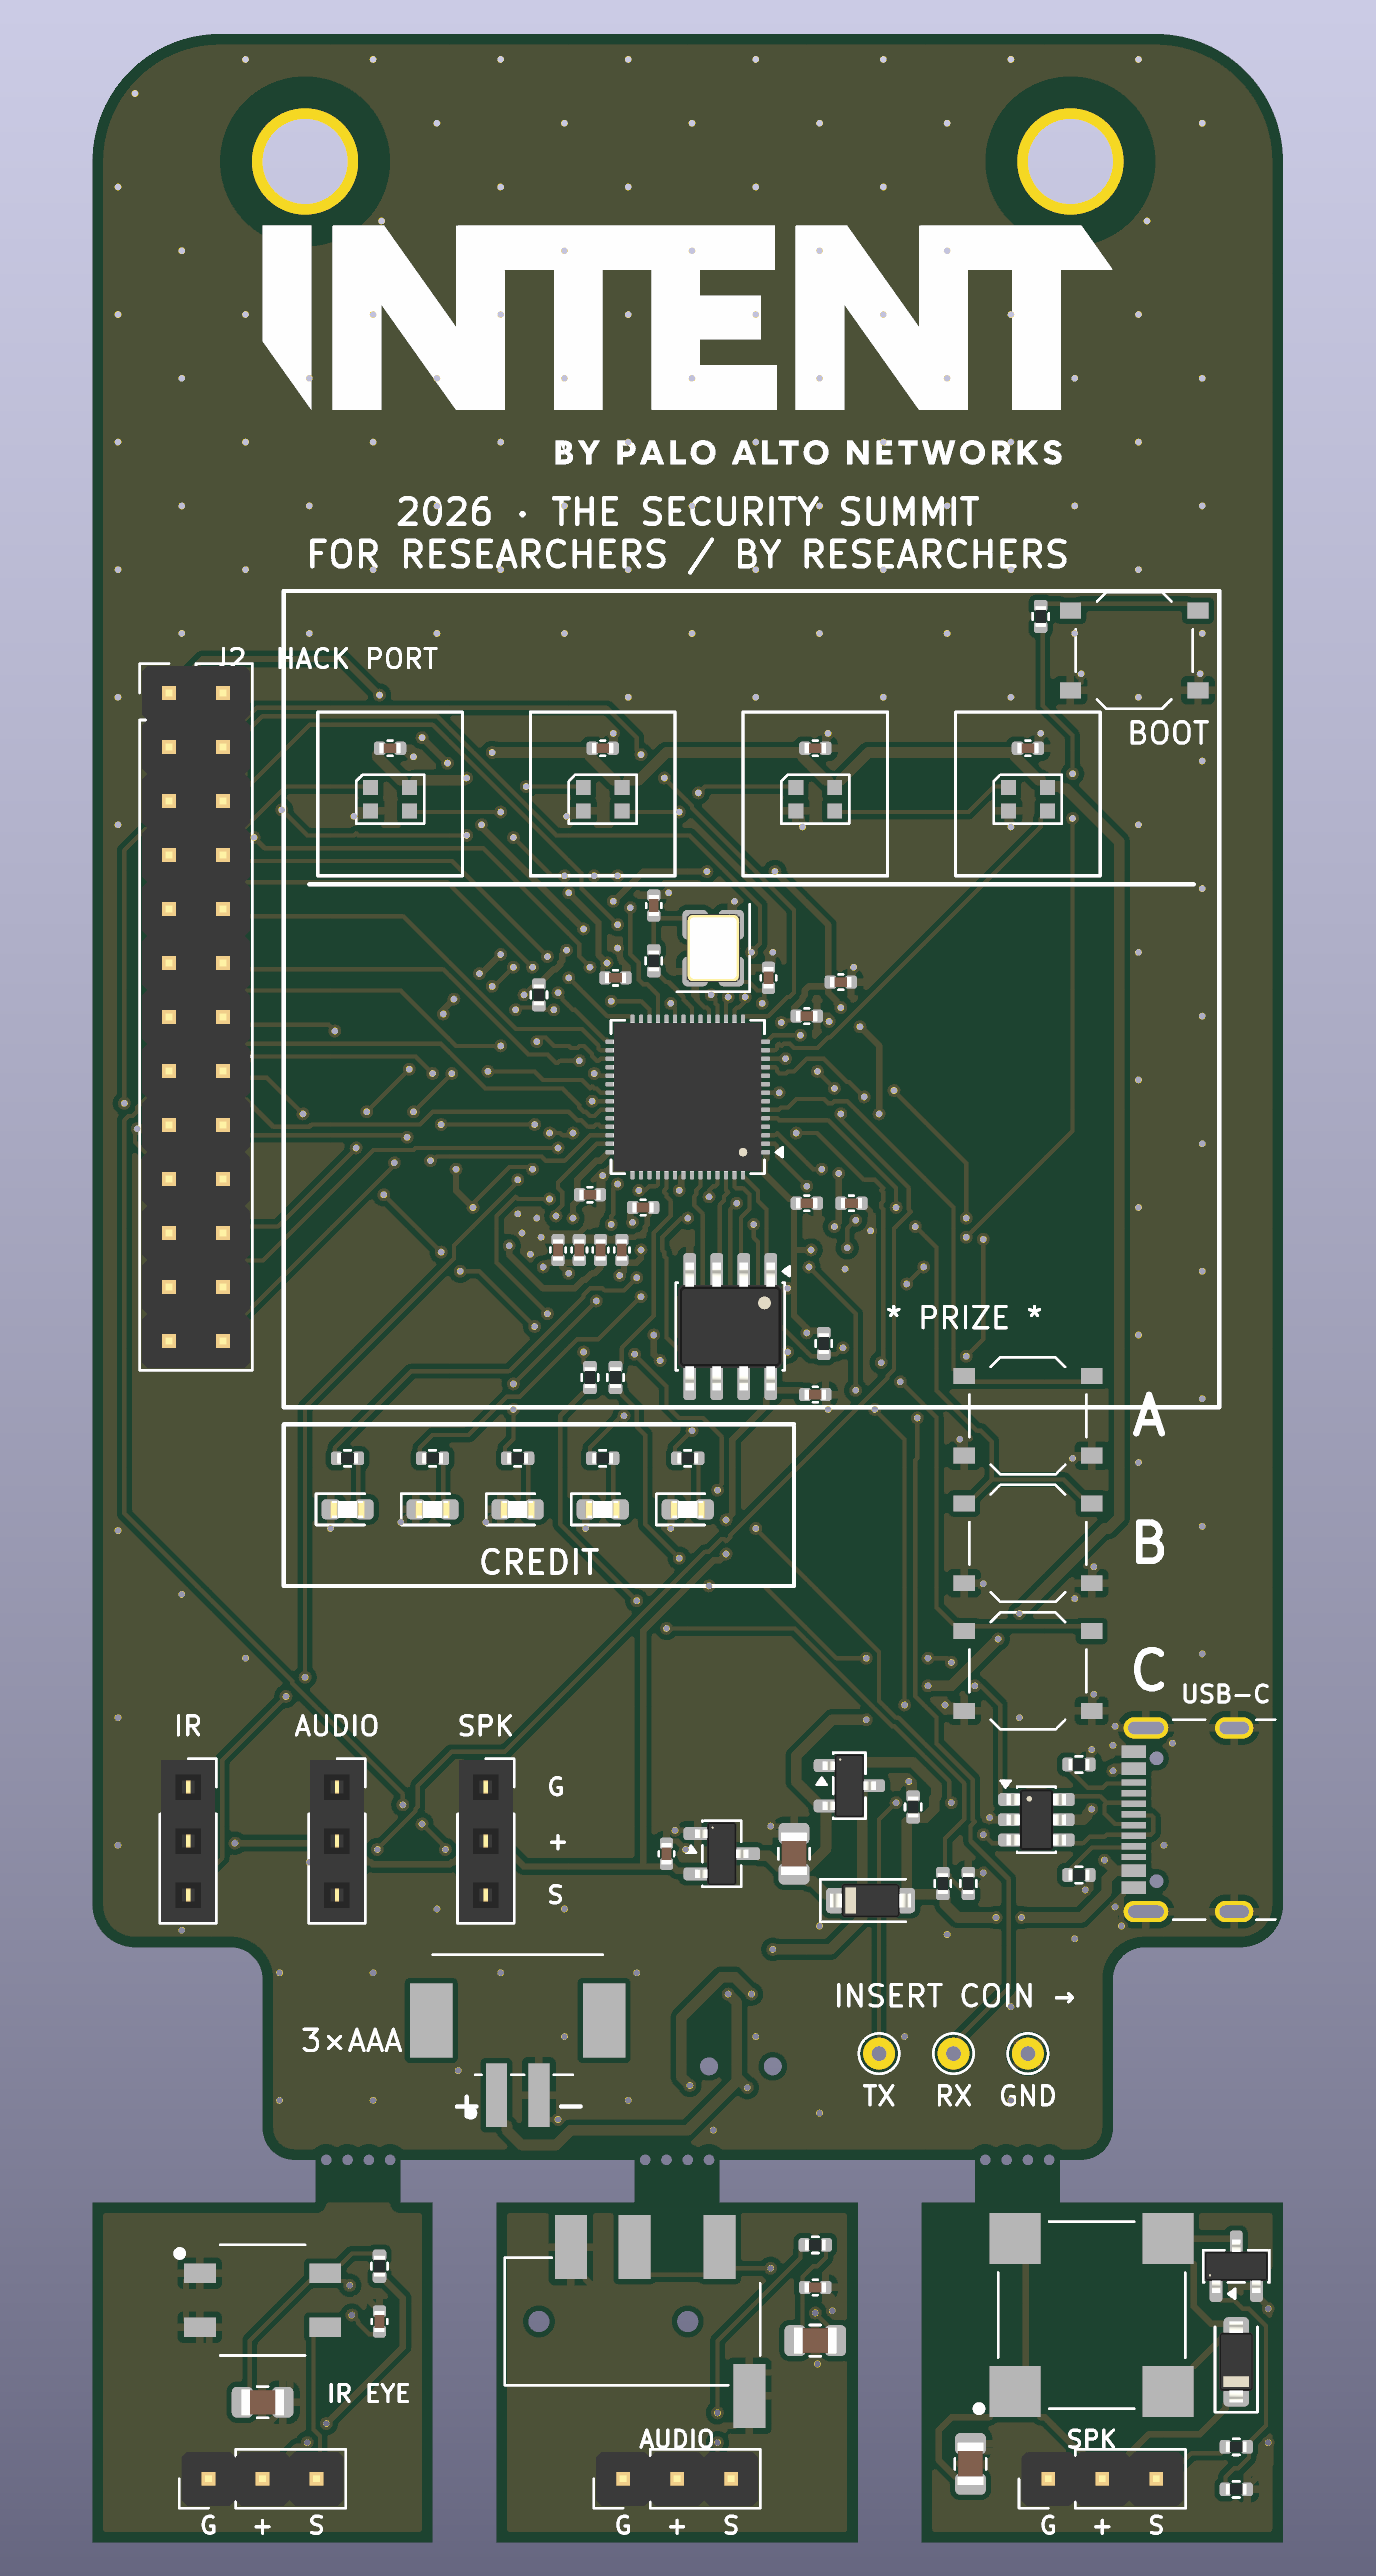
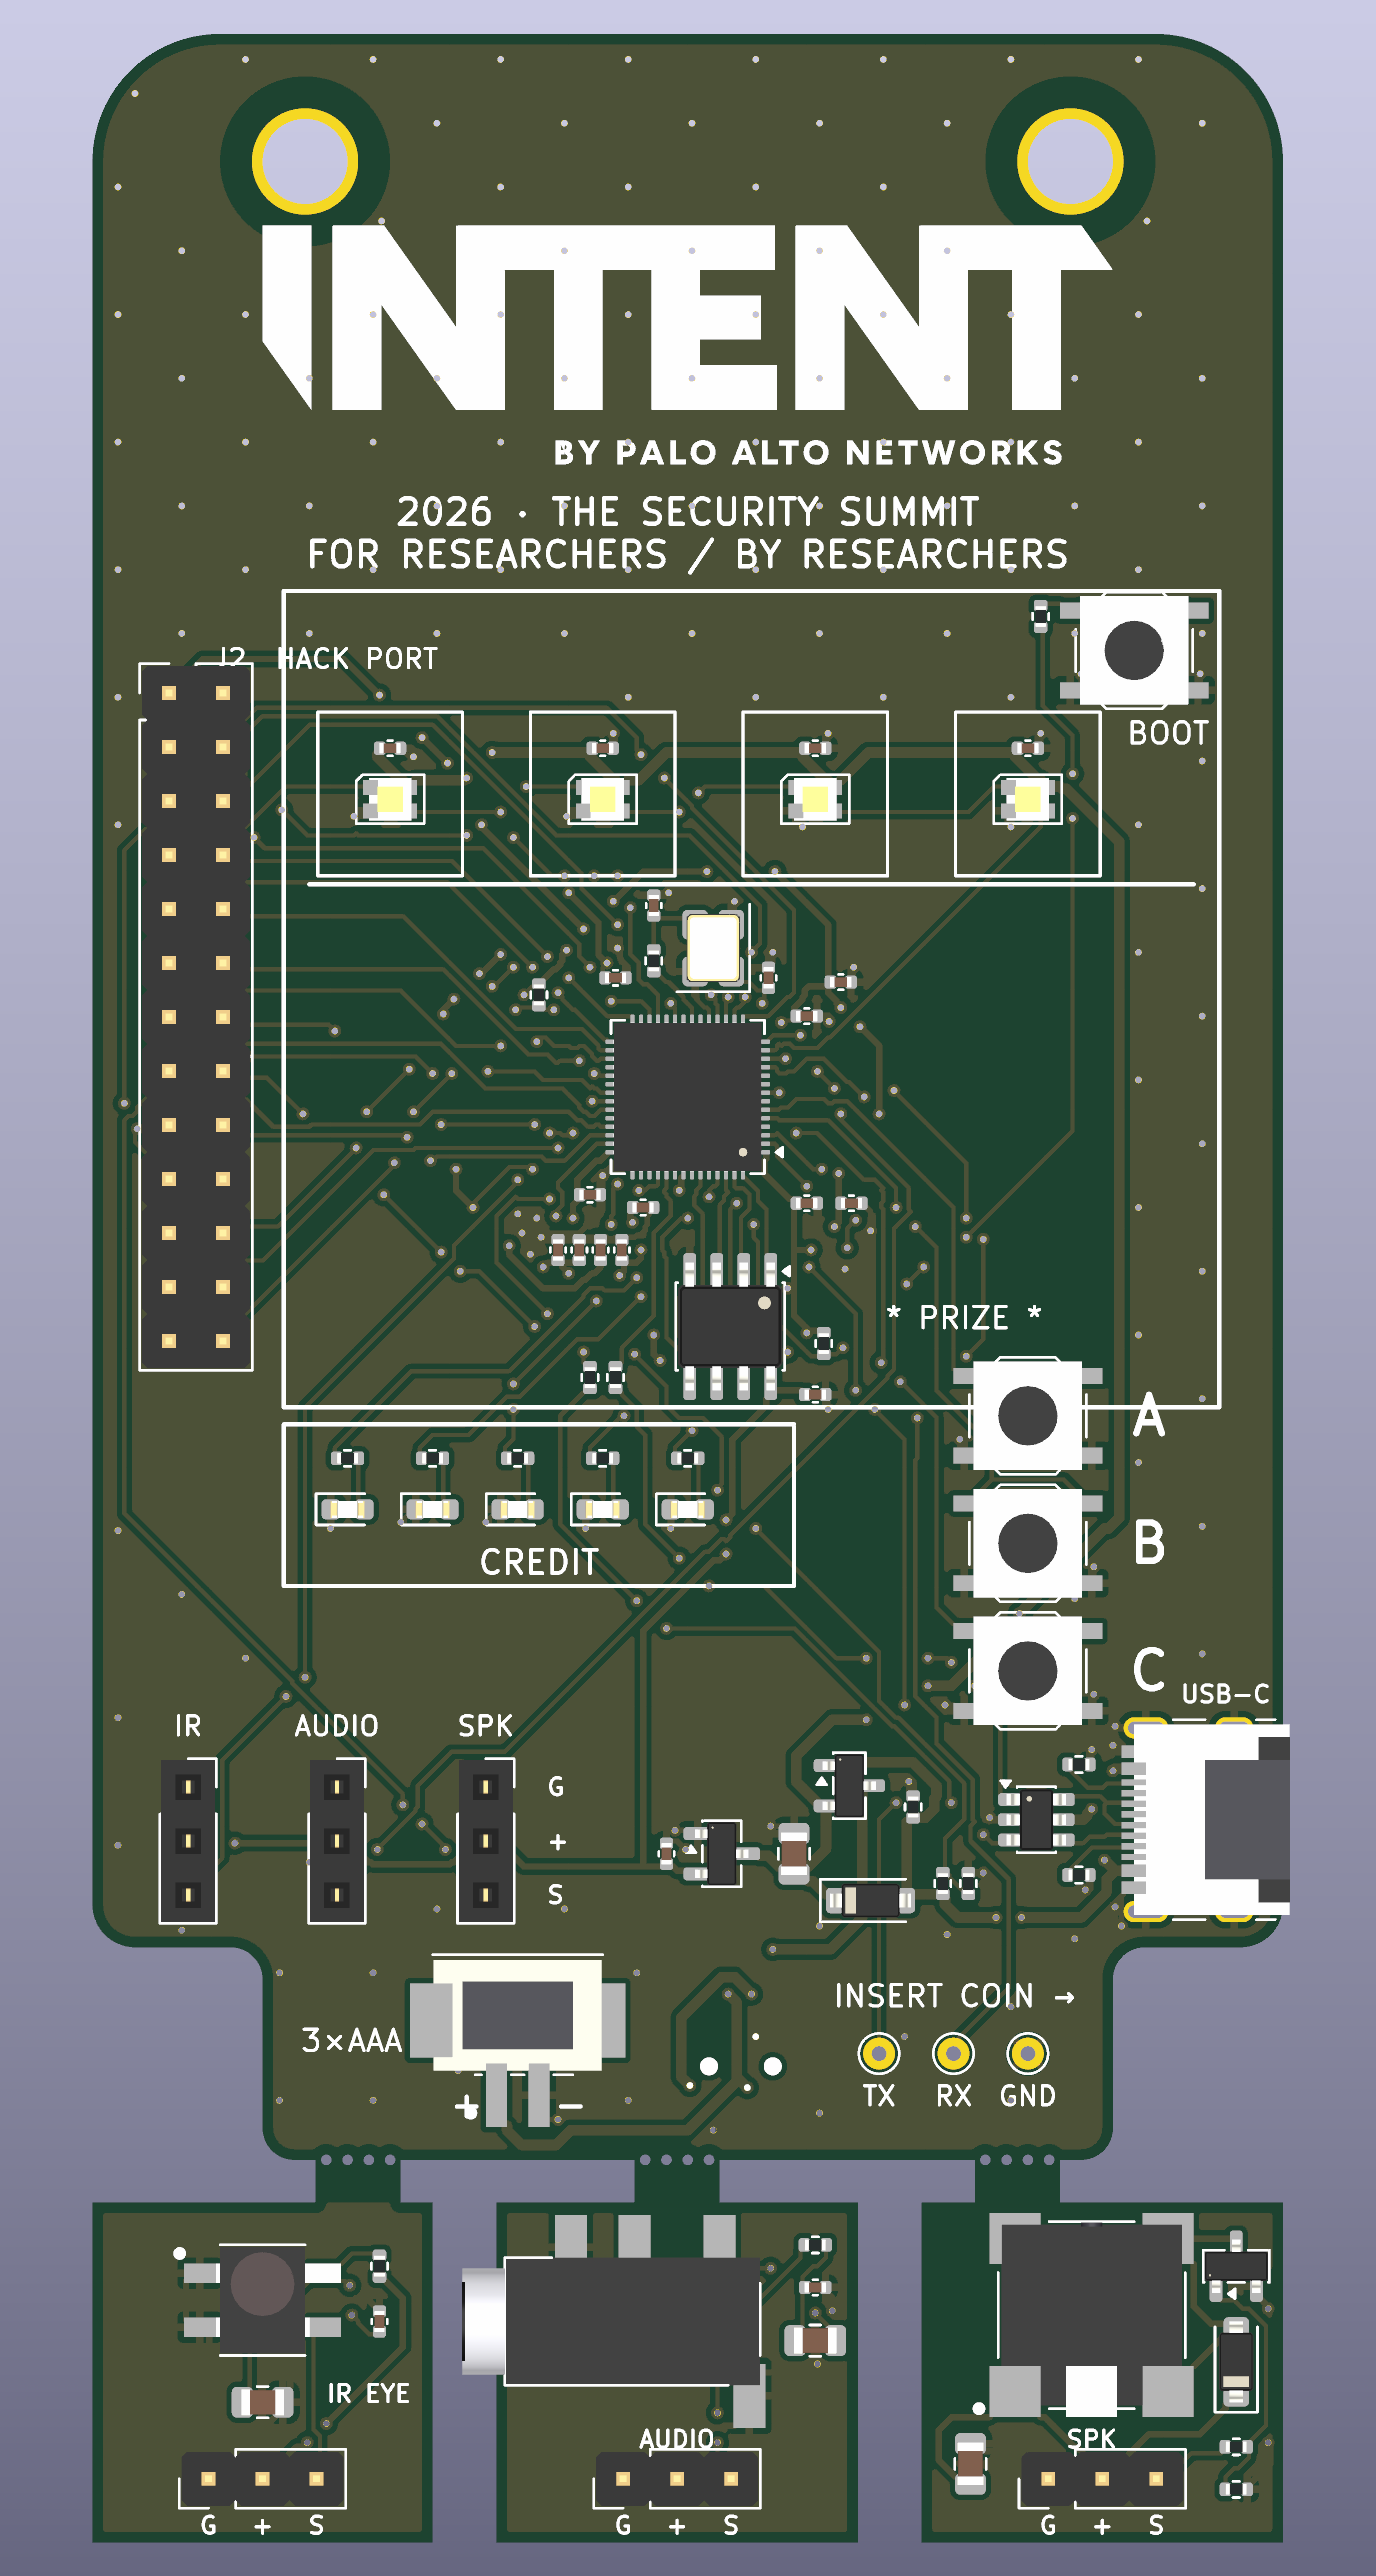
Add simplified 3D models for footprints without one; refresh renders
gen_3d.py writes VRML boxes/cylinders for the custom footprints (USB-C,
PJ-320D, IRM-H638T, JST-PH, MLT-8530) and for TS-1187A, WS2812B-2020 and
MSK12C02, whose STEP models KiCad 10 does not ship. Footprints and the
board reference them; front/back renders regenerated.

diff --git a/03-kicad/scripts/gen_3d.py b/03-kicad/scripts/gen_3d.py
@@ -1,0 +1,96 @@
+"""Simple VRML 3D models (boxes and cylinders) for the footprints that have no model in the KiCad install:
+the custom parts in intent.pretty and three stock footprints whose STEP files are not shipped with KiCad 10
+(TS-1187A switch, WS2812B-2020, MSK12C02). Output: ../intent.3dshapes/*.wrl
+
+Geometry is authored in footprint coordinates (mm, x right, y DOWN as on the PCB, z up) and converted to the
+KiCad VRML convention (0.1 inch units, y up). Dimensions come from the datasheets / JLC footprints.
+"""
+import os, math
+
+OUT = os.path.join(os.path.dirname(os.path.abspath(__file__)), '..', 'intent.3dshapes')
+os.makedirs(OUT, exist_ok=True)
+U = 1 / 2.54
+BLACK = (0.10, 0.10, 0.10)
+DARK = (0.20, 0.20, 0.22)
+METAL = (0.78, 0.78, 0.80)
+WHITE = (0.92, 0.92, 0.88)
+BEIGE = (0.90, 0.86, 0.72)
+LENS = (0.25, 0.20, 0.20)
+YELLOW = (0.95, 0.85, 0.45)
+
+
+def _pt(x, y, z):
+    return '%.4f %.4f %.4f' % (x * U, -y * U, z * U)
+
+
+def _shape(color, points, faces):
+    pts = ', '.join(_pt(*p) for p in points)
+    idx = ', '.join(' '.join(str(i) for i in f) + ' -1' for f in faces)
+    return ('Shape {\n appearance Appearance { material Material { diffuseColor %.2f %.2f %.2f specularColor 0.3 0.3 0.3 shininess 0.2 } }\n'
+            ' geometry IndexedFaceSet { solid FALSE coord Coordinate { point [ %s ] } coordIndex [ %s ] }\n}\n'
+            % (color[0], color[1], color[2], pts, idx))
+
+
+def box(x1, y1, x2, y2, z1, z2, color):
+    p = [(x1, y1, z1), (x2, y1, z1), (x2, y2, z1), (x1, y2, z1), (x1, y1, z2), (x2, y1, z2), (x2, y2, z2), (x1, y2, z2)]
+    f = [(0, 3, 2, 1), (4, 5, 6, 7), (0, 1, 5, 4), (1, 2, 6, 5), (2, 3, 7, 6), (3, 0, 4, 7)]
+    return _shape(color, p, f)
+
+
+def cyl(cx, cy, cz, r, length, axis, color, n=24):
+    """Cylinder centred at (cx, cy, cz) along axis 'x', 'y' or 'z' with the given length."""
+    pts = []
+    for k in range(n):
+        a = 2 * math.pi * k / n
+        for s in (-0.5, 0.5):
+            u, v, w = r * math.cos(a), r * math.sin(a), s * length
+            if axis == 'z':
+                pts.append((cx + u, cy + v, cz + w))
+            elif axis == 'x':
+                pts.append((cx + w, cy + u, cz + v))
+            else:
+                pts.append((cx + u, cy + w, cz + v))
+    faces = []
+    for k in range(n):
+        a, b = 2 * k, 2 * ((k + 1) % n)
+        faces.append((a, b, b + 1, a + 1))
+    faces.append(tuple(2 * k for k in range(n)))
+    faces.append(tuple(2 * k + 1 for k in range(n - 1, -1, -1)))
+    return _shape(color, pts, faces)
+
+
+def write(name, body):
+    with open(os.path.join(OUT, name + '.wrl'), 'w', newline='\n') as f:
+        f.write('#VRML V2.0 utf8\n# %s - generated by 03-kicad/scripts/gen_3d.py (simplified model)\n' % name + body)
+
+
+MODELS = {
+    # USB-C 16-pin receptacle C393939: shell 8.94 x 7.3 x 3.26 mm, mouth toward +Y, pads at the -Y end
+    'USB_C_TYPE-C16PIN_C393939': box(-4.47, -2.34, 4.47, 4.96, 0, 3.26, METAL) + box(-3.9, 3.5, 3.9, 5.0, 0.7, 2.6, BLACK)
+                                 + box(-2.8, 1.0, 2.8, 5.0, 1.45, 1.85, DARK),
+    # PJ-320D 3.5 mm jack: body 12 x 6 x 5, barrel 2 mm long on the -X end
+    'Jack_3.5mm_PJ-320D_SMD_C431535': box(-7.3, -3.0, 4.7, 3.0, 0, 5.0, BLACK) + cyl(-8.3, 0, 2.5, 2.5, 2.0, 'x', METAL)
+                                      + cyl(-9.25, 0, 2.5, 1.85, 0.15, 'x', BLACK),
+    # IRM-H638T: 4.0 x 5.0 x 3.4 body, lens on top at (0, -0.76)
+    'IRM-H638T_C91447': box(-2.0, -2.5, 2.0, 2.5, 0, 2.6, BLACK) + cyl(0, -0.76, 2.6, 1.5, 0.8, 'z', LENS)
+                        + box(-3.7, -1.72, -2.0, -0.82, 0, 0.3, METAL) + box(-3.7, 0.82, -2.0, 1.72, 0, 0.3, METAL)
+                        + box(2.0, -1.72, 3.7, -0.82, 0, 0.3, METAL) + box(2.0, 0.82, 3.7, 1.72, 0, 0.3, METAL),
+    # JST PH 2-pin SMD vertical (PH2.0-2P-LT): 7.9 x 4.5 x 6.0, opening on top
+    'JST_PH_2P_SMD_Vertical_C722761': box(-3.95, -4.6, 3.95, 0.6, 0, 6.0, BEIGE) + box(-2.6, -3.6, 2.6, -0.4, 4.0, 6.01, DARK)
+                                      + box(-1.3, -2.3, -0.7, -1.7, 1.0, 6.0, METAL) + box(0.7, -2.3, 1.3, -1.7, 1.0, 6.0, METAL),
+    # MLT-8530 transducer: 8.5 x 8.5 x 3.0, sound port on the -Y side
+    'Buzzer_MLT-8530_C94599': box(-4.25, -4.25, 4.25, 4.25, 0, 3.0, BLACK) + cyl(0, -4.26, 1.6, 0.5, 0.2, 'y', DARK)
+                              + box(-1.2, 2.4, -0.0, 4.8, 0, 0.2, METAL) + box(0.0, 2.4, 1.2, 4.8, 0, 0.2, METAL),
+    # TS-1187A tactile switch: 5.1 x 5.1 x 1.5 with a round actuator
+    'SW_Push_1P1T_XKB_TS-1187A': box(-2.55, -2.55, 2.55, 2.55, 0, 0.5, BLACK) + box(-2.55, -2.55, 2.55, 2.55, 0.5, 1.1, METAL)
+                                 + cyl(0, 0, 1.3, 1.4, 0.4, 'z', BLACK),
+    # WS2812B-2020: 2.0 x 2.0 x 0.9, white body, yellow die window
+    'LED_WS2812B-2020_PLCC4_2.0x2.0mm': box(-1.0, -1.0, 1.0, 1.0, 0, 0.9, WHITE) + box(-0.6, -0.6, 0.6, 0.6, 0.9, 0.95, YELLOW),
+    # MSK12C02 slide switch: 8.6 x 3.7 x 2.4 body, knob toward -Y (actuation along X)
+    'SW_SPDT_Shouhan_MSK12C02': box(-4.3, -1.85, 4.3, 1.85, 0, 2.4, METAL) + box(-1.2, -3.2, 1.2, -1.85, 0.6, 2.0, BLACK),
+}
+
+if __name__ == '__main__':
+    for n, b in MODELS.items():
+        write(n, b)
+    print('3D models ->', os.path.abspath(OUT), len(MODELS))

diff --git a/03-kicad/scripts/add_3d.py b/03-kicad/scripts/add_3d.py
@@ -1,0 +1,21 @@
+"""(KiCad python) Attach the gen_3d.py models to an existing finished board without regenerating it.
+usage: add_3d.py <board.kicad_pcb>   (custom intent.pretty footprints + the FALLBACK_3D stock footprints)"""
+import sys, os
+sys.path.insert(0, os.path.dirname(os.path.abspath(__file__)))
+import pcbnew
+from pcb_build import FALLBACK_3D
+
+CUSTOM = ('USB_C_TYPE-C16PIN_C393939', 'Jack_3.5mm_PJ-320D_SMD_C431535', 'IRM-H638T_C91447',
+          'JST_PH_2P_SMD_Vertical_C722761', 'Buzzer_MLT-8530_C94599')
+b = pcbnew.LoadBoard(sys.argv[1])
+n = 0
+for fp in b.GetFootprints():
+    name = fp.GetFPID().GetLibItemName().wx_str()
+    if name in CUSTOM or name in FALLBACK_3D:
+        fp.Models().clear()
+        m = pcbnew.FP_3DMODEL()
+        m.m_Filename = '${KIPRJMOD}/intent.3dshapes/%s.wrl' % name
+        fp.Models().push_back(m)
+        n += 1
+pcbnew.SaveBoard(sys.argv[1], b)
+print('models attached to', n, 'footprints')

diff --git a/03-kicad/scripts/pcb_build.py b/03-kicad/scripts/pcb_build.py
@@ -156,6 +156,19 @@ def add_mousebites(board):
         fp.Value().SetVisible(False)
 
 
+# stock footprints whose STEP model is not shipped with this KiCad install -> simplified VRML from gen_3d.py
+FALLBACK_3D = ('SW_Push_1P1T_XKB_TS-1187A', 'LED_WS2812B-2020_PLCC4_2.0x2.0mm', 'SW_SPDT_Shouhan_MSK12C02')
+
+
+def set_fallback_model(fp, name):
+    if name not in FALLBACK_3D:
+        return
+    fp.Models().clear()
+    m = pcbnew.FP_3DMODEL()
+    m.m_Filename = '${KIPRJMOD}/intent.3dshapes/%s.wrl' % name
+    fp.Models().push_back(m)
+
+
 def load_netlist(path):
     tree = parse(open(path, encoding='utf-8').read())[0]
     comps = {}
@@ -227,6 +240,7 @@ def main(prj, netpath, geopath):
         fp.SetExcludedFromBOM(exbom or dnp)
         if dnp or exbom:
             fp.SetExcludedFromPosFiles(True)
+        set_fallback_model(fp, name)
         x, y, rot, side = placement.get(ref)
         board.Add(fp)
         if side == 'B':

diff --git a/03-kicad/scripts/gen_fp.py b/03-kicad/scripts/gen_fp.py
@@ -45,7 +45,13 @@ def header(name, descr, tags, attr='smd', ref_y=-5, val_y=5):
             '\t(attr %s)\n') % (name, descr, tags, f(ref_y), name, f(val_y), attr)
 
 
+NO_MODEL = ('LanyardHole_4.0mm_Plated', 'MouseBites_1x4_D0.5_P1.0')
+
+
 def write(name, body):
+    if name not in NO_MODEL:   # simplified VRML models from gen_3d.py
+        body += ('\t(model "${KIPRJMOD}/intent.3dshapes/%s.wrl" (offset (xyz 0 0 0)) (scale (xyz 1 1 1)) '
+                 '(rotate (xyz 0 0 0)))\n' % name)
     with open(os.path.join(OUT, name + '.kicad_mod'), 'w', newline='\n') as fh:
         fh.write(body + ')\n')
 

diff --git a/03-kicad/BUILD-NOTES.md b/03-kicad/BUILD-NOTES.md
@@ -14,7 +14,7 @@ KiCad project, regenerated with **KiCad 10.0.3** on the Mac on 2026-10-11 (the b
 
 ## How the files are generated (all scripted, reproducible)
 `scripts/design.py` is the netlist source of truth, and `scripts/placement.py` holds the coordinates.
-1. `gen_fp.py` → `intent.pretty` (USB-C C393939, PJ-320D C431535, IRM-H638T C91447, JST-PH C722761, MLT-8530 C94599, lanyard hole, mouse bites). Pad geometry is copied from the JLC/EasyEDA footprints of those exact LCSC parts. The MLT-8530 footprint numbers its two dummy pads crosswise (1/2), so a 180° placement only reverses the coil.
+1. `gen_fp.py` → `intent.pretty` (USB-C C393939, PJ-320D C431535, IRM-H638T C91447, JST-PH C722761, MLT-8530 C94599, lanyard hole, mouse bites). Pad geometry is copied from the JLC/EasyEDA footprints of those exact LCSC parts. The MLT-8530 footprint numbers its two dummy pads crosswise (1/2), so a 180° placement only reverses the coil. `gen_3d.py` → `intent.3dshapes/` simplified VRML models for these footprints and for the three stock footprints without a shipped STEP model (`pcb_build.FALLBACK_3D`); `add_3d.py` attaches them to an already finished board.
 2. `gen_sch.py` → `.kicad_sch`, a **wired schematic** (2026-10-11 rework): nine blocks on one A2 sheet (USB-C, power path, expansion ports, IR module, RP2040 core, UI, header, audio module, speaker module). Rails use power symbols, every other net carries a global label with the design.py net name, so the PCB netlist is unchanged. Drawing primitives are in `schlib.py`; `check_sch.py --erc` exports the netlist and proves every (ref, pin) → net matches design.py, then runs ERC. `render_sch.py` makes a PNG for a visual check. The previous labels-only schematic is kept as `build/intent-2026-badge.kicad_sch.v1-labels.bak`.
 3. `pcb_build.py` (KiCad Python) → unrouted board + `build/geo.json`. Draws the badge outline, splits the pedestal edge at the tabs, adds the tab sides and module rectangles as one closed Edge.Cuts contour, and places the mouse-bite footprints (`SetBoardOnly`, excluded from BOM/CPL and from schematic parity). `geo.json` carries the full polygon (router) and the badge-only polygon (pours, silk).
 4. `router/route2.py` routes the board with a negotiated-congestion grid router: exact clearances, A* in C (`astar.c`), and a final GND fan-out pass into the main B.Cu plane.
@@ -53,4 +53,4 @@ rev 0.4 settings for reference: `GND_LAST=1 GND_SUBSET=U2.4,U1.19,R10.2,C8.2,C7.
 - **JLC DFM on the breakaway features:** 0.5 mm NPTH mouse bites centred on the edge line, 2 mm routed gap, 4 mm tabs. If JLC objects to the half-holes on the edge, move the MB footprints 0.25 mm into the tab (`pcb_build.add_mousebites`).
 - 1N4148W C81598 showed 300 pieces in LCSC stock on 2026-10-11; check JLC's own stock or substitute.
 - The 12 MHz crystal C133334 is specified for CL = 20 pF, but C11/C12 are 15 pF (Pico values). Expect about +50 ppm, which is fine for USB. If you want it exact, use 27–33 pF caps.
-- The 3D view has no models for the 4 custom footprints. This is cosmetic only.
+- 3D view: the custom footprints and three stock ones whose STEP files are missing in KiCad 10 (TS-1187A, WS2812B-2020, MSK12C02) use simplified box/cylinder VRML models from `scripts/gen_3d.py` (`intent.3dshapes/`). Cosmetic only; dimensions follow the datasheets.

diff --git a/CLAUDE.md b/CLAUDE.md
@@ -37,6 +37,9 @@ The `.kicad_sch` / `.kicad_pcb` files are **generated**. Do not hand-edit them f
   `design.MODULES` maps module → ground net / socket / header.
 - Silkscreen art: `scripts/silk.py`, logo via `scripts/art_logo.py`
 - Project rules / netclasses: `scripts/gen_pro.py`
+- 3D models: `scripts/gen_3d.py` → `intent.3dshapes/*.wrl` (simplified boxes/cylinders for the custom footprints and
+  for TS-1187A / WS2812B-2020 / MSK12C02, whose STEP files KiCad 10 does not ship). `pcb_build.py` attaches them;
+  `add_3d.py <board>` does the same on an existing board.
 - Custom footprints: `scripts/gen_fp.py` → `intent.pretty/` (incl. the MLT-8530 transducer and the board-only
   `MouseBites_1x4_D0.5_P1.0` footprint that `pcb_build.py` places as MB1–MB3; those are not in the schematic)
 - Board outline incl. tabs and modules: `pcb_build.py` (`OUTLINE` = badge, `bottom_detour()` adds the modules);
